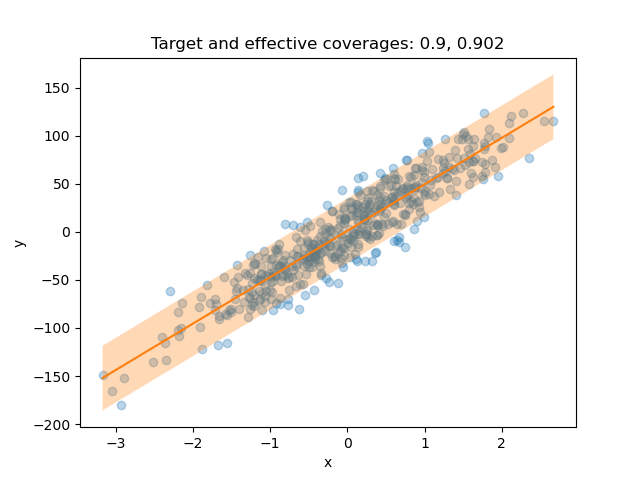
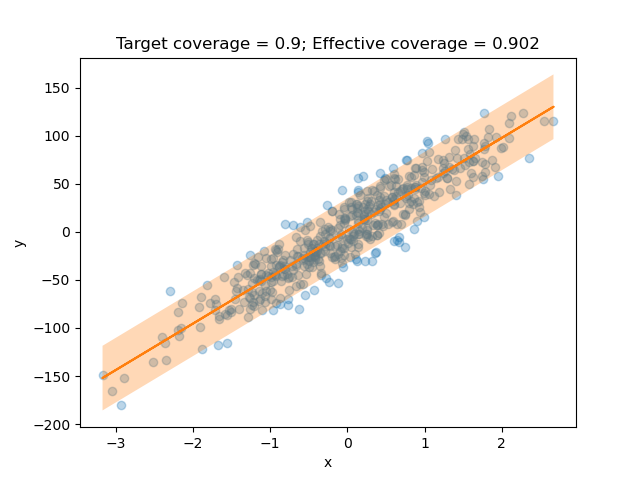
Make a few changes in the toy model example.

Changed region(s): [[0.1875, 0.0625, 0.8438, 0.125], [0.7188, 0.3125, 0.75, 0.3438], [0.5625, 0.4375, 0.5938, 0.4688]]

diff --git a/examples/plot_toy_model.py b/examples/plot_toy_model.py
@@ -26,5 +26,5 @@ plt.scatter(X, y, alpha=0.3)
 plt.plot(X, y_preds[:, 0], color='C1')
 order = np.argsort(X[:, 0])
 plt.fill_between(X[order].ravel(), y_preds[:, 1][order], y_preds[:, 2][order], alpha=0.3)
-plt.title(f"Target and effective coverages: 0.9, {coverage_score(y, y_preds[:, 1], y_preds[:, 2])}")
+plt.title(f"Target coverage = 0.9; Effective coverage = {coverage_score(y, y_preds[:, 1], y_preds[:, 2])}")
 plt.show()

diff --git a/README.rst b/README.rst
@@ -79,9 +79,14 @@ sequential ``fit`` and ``predict`` process  like any scikit-learn regressor.
     y_preds = mapie.predict(X)
 
 
-MAPIE returns a ``np.ndarray`` of shape (n_samples, 3) giving the predictions,
+MAPIE returns a ``np.ndarray`` of shape (3, n_sample) giving the predictions,
 as well as the lower and upper bounds of the prediction intervals for the target quantile.
-The estimated prediction interval can be easily plotted as follows.
+The estimated prediction interval, plotted as follows, are used to compute the effective coverage.
+The target coverage is the fraction of true labels lying in the prediction intervals that we aim 
+to obtain for a given dataset.
+It is given by the alpha parameter defined in `MapieRegressor`, here equal to the default value of
+0.1 giving a target coverage of 0.9.
+The effective coverage is the actual fraction of true labels lying in the prediction intervals.
 
 .. code:: python
     
@@ -90,7 +95,7 @@ The estimated prediction interval can be easily plotted as follows.
     plt.xlabel('x')
     plt.ylabel('y')
     plt.scatter(X, y, alpha=0.3)
-    plt.plot(X_pi, y_preds[:, 0], color='C1')
+    plt.plot(X, y_preds[:, 0], color='C1')
     order = np.argsort(X[:, 0])
     plt.fill_between(X[order].ravel(), y_preds[:, 1][order], y_preds[:, 2][order], alpha=0.3)
     plt.title(
@@ -104,8 +109,8 @@ The estimated prediction interval can be easily plotted as follows.
     :align: center
 
 
-📘 Documentation
-================
+:blue_book: Documentation
+=========================
 
 The documentation can be found `on this link <https://mapie.readthedocs.io/en/latest/>`_.
 It contains the following sections:

diff --git a/doc/quick_start.rst b/doc/quick_start.rst
@@ -55,7 +55,12 @@ sequential ``fit`` and ``predict`` process  like any scikit-learn regressor.
 
 MAPIE returns a ``np.ndarray`` of shape (3, n_sample) giving the predictions,
 as well as the lower and upper bounds of the prediction intervals for the target quantile.
-The estimated prediction interval can be easily plotted as follows.
+The estimated prediction interval, plotted as follows, are used to compute the effective coverage.
+The target coverage is the fraction of true labels lying in the prediction intervals that we aim 
+to obtain for a given dataset.
+It is given by the alpha parameter defined in `MapieRegressor`, here equal to the default value of
+0.1 giving a target coverage of 0.9.
+The effective coverage is the actual fraction of true labels lying in the prediction intervals.
 
 .. code:: python
     
@@ -64,7 +69,7 @@ The estimated prediction interval can be easily plotted as follows.
     plt.xlabel('x')
     plt.ylabel('y')
     plt.scatter(X, y, alpha=0.3)
-    plt.plot(X_pi, y_preds[:, 0], color='C1')
+    plt.plot(X, y_preds[:, 0], color='C1')
     order = np.argsort(X[:, 0])
     plt.fill_between(X[order].ravel(), y_preds[:, 1][order], y_preds[:, 2][order], alpha=0.3)
     plt.title(
